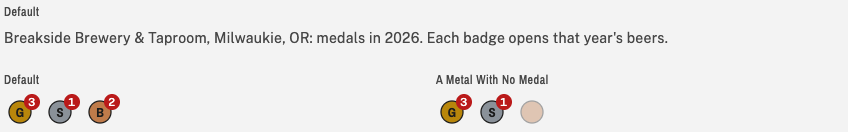
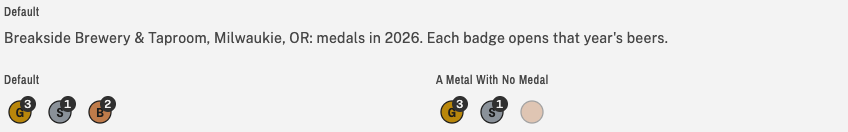
fix(web): neutral badge counts and honest gaps in the brewery trend (#68)
The count badge defaults to inverse surface on inverse on surface (about 13 to 1) so a count no longer reads as an alert, and it sits inside the badge's own box so a cell never clips it. A year with no medals shows three dimmed marks, the same language as a missing metal. A year whose results are not loaded shows Not Found in Medals and the badge column instead of 0; a partial year counts its partial rows and its status says Partial Year.

Changed region(s): [[0.0, 0.697, 0.1533, 0.8485], [0.5212, 0.697, 0.6132, 0.8485]]

diff --git a/web/components/MedalBadge.tsx b/web/components/MedalBadge.tsx
@@ -6,9 +6,11 @@ import { MedalMark, type MedalName } from './MedalMark';
 import type { MedalCounts } from './MedalRecord';
 
 // A year's medals as badges, the way an app icon carries a count: gold, then silver, then bronze, each
-// a medal mark with its count in a Material badge. A badge with a link opens that year's beers; its
-// accessible name says the count, the medal, the year, and where it goes. A metal with no medal shows a
-// dimmed mark with no count and no link (or nothing, when the spec hides zeros).
+// a medal mark with its count in a Material badge (a neutral pairing, inverse surface by default, so a
+// count never reads as an alert). The badge stays inside its own box, so a table cell never clips it. A
+// badge with a link opens that year's beers; its accessible name says the count, the medal, the year,
+// and where it goes. A metal with no medal shows a dimmed mark with no count and no link (or nothing,
+// when the spec hides zeros), so a year with no medals reads as three dimmed marks.
 
 export type BadgeCopy = { one: string; other: string; none: string };
 
@@ -19,7 +21,7 @@ const fillIn = (text: string, values: Record<string, string | number>) => text.r
 export function MedalBadge({ counts, year, names, copy, links, group }: { counts: MedalCounts; year: number; names: Record<MedalName, string>; copy: BadgeCopy; links: Partial<Record<MedalName, string>>; group: string }) {
   const s = useSettings('medal-badge');
   const box = Math.max(24, Number(s.Size ?? 32));
-  const countRole = s['Count color'] ?? 'error';
+  const countRole = s['Count color'] ?? 'inverse surface';
   const showZero = s['Show zero'] !== 'no';
   return (
     <span data-component="medal-badge" role="group" aria-label={group} className="inline-flex items-center gap-2">
@@ -39,7 +41,7 @@ export function MedalBadge({ counts, year, names, copy, links, group }: { counts
             <span aria-hidden="true" className="inline-flex transition-transform duration-150 ease-out group-hover/badge:scale-110 motion-reduce:transition-none"><MedalMark medal={m} /></span>
             <span
               aria-hidden="true"
-              className="type-label-small font-plain tabular-nums absolute -top-0.5 -right-1 inline-flex h-4 min-w-4 items-center justify-center rounded-full px-1 leading-none"
+              className="type-label-small font-plain tabular-nums absolute top-0 right-0 inline-flex h-4 min-w-4 items-center justify-center rounded-full px-1 leading-none"
               style={{ background: color(countRole), color: onColor(countRole) }}
             >
               {n}

diff --git a/web/app/(site)/breweries/[slug]/BreweryMedals.tsx b/web/app/(site)/breweries/[slug]/BreweryMedals.tsx
@@ -77,17 +77,22 @@ export function BreweryMedals({ b, year, copy, estimate }: Props) {
       ? `${href(paths.winners(y))}${hashFor({ brewery_key: b.key, medal: m, ...partial })}`
       : `${href(paths.brewery(b.slug))}${hashFor({ year: String(y), medal: m, ...partial })}`])) as Record<MedalName, string>;
   };
-  const trendRows: Row[] = [...b.trend].reverse().map((t) => ({
-    key: String(t.year),
-    cells: {
-      year: t.year,
-      status: c.trend_status[t.status] ?? c.gaps.not_found,
-      medals: t.total,
-      split: t.total
-        ? <MedalBadge counts={{ gold: t.gold, silver: t.silver, bronze: t.bronze }} year={t.year} names={medalNames} copy={badgeCopy} links={badgeLinks(t.year)} group={fillText(c.trend.badge_group, { brewery_name: b.name, year: t.year })} />
-        : <MedalRecord counts={{ gold: t.gold, silver: t.silver, bronze: t.bronze }} variant="value" names={medalNames} />,
-    },
-  }));
+  // A year whose results are not loaded is a gap, never a zero. A partial year counts the rows its
+  // partial list holds and says it is partial.
+  const partialYear = (y: number) => b.rows.some((r) => r.year === y && r.partial);
+  const trendRows: Row[] = [...b.trend].reverse().map((t) => {
+    const gap = t.status === 'not-yet-reported' || t.status === 'no-results';
+    const label = c.trend_status[t.status] ?? c.gaps.not_found;
+    return {
+      key: String(t.year),
+      cells: {
+        year: t.year,
+        status: t.status === 'medaled' && partialYear(t.year) ? fillText(c.trend.status_partial, { status: label }) : label,
+        medals: gap ? none : t.total,
+        split: gap ? none : <MedalBadge counts={{ gold: t.gold, silver: t.silver, bronze: t.bronze }} year={t.year} names={medalNames} copy={badgeCopy} links={t.total ? badgeLinks(t.year) : {}} group={fillText(c.trend.badge_group, { brewery_name: b.name, year: t.year })} />,
+      },
+    };
+  });
 
   // Hops and farms reached through the beers in view.
   const hopTally = tally(shown.flatMap((r) => r.hop_varieties ?? []), (n) => n);

diff --git a/.docs/content-management-system/pages/brewery-detail.md b/.docs/content-management-system/pages/brewery-detail.md
@@ -176,6 +176,7 @@ Where: the ten year trend table under the medal chart.
 - `badge_one`: {{count}} {{medal}} medal in {{year}}, open the beers
 - `badge_other`: {{count}} {{medal}} medals in {{year}}, open the beers
 - `badge_none`: No {{medal}} medals in {{year}}
+- `status_partial`: {{status}}, Partial Year
 
 ## `chart`
 

diff --git a/.design/design-system/components/medal-badge/spec.md b/.design/design-system/components/medal-badge/spec.md
@@ -4,7 +4,7 @@ title: Medal badge
 status: review
 code: web/components/MedalBadge.tsx
 Size: 32
-Count color: error
+Count color: inverse surface
 Show zero: yes
 ---
 
@@ -13,5 +13,5 @@ Show zero: yes
 ## medal-badge-options
 
 - Size: 32
-- Count color: error
+- Count color: inverse surface
 - Show zero: yes
